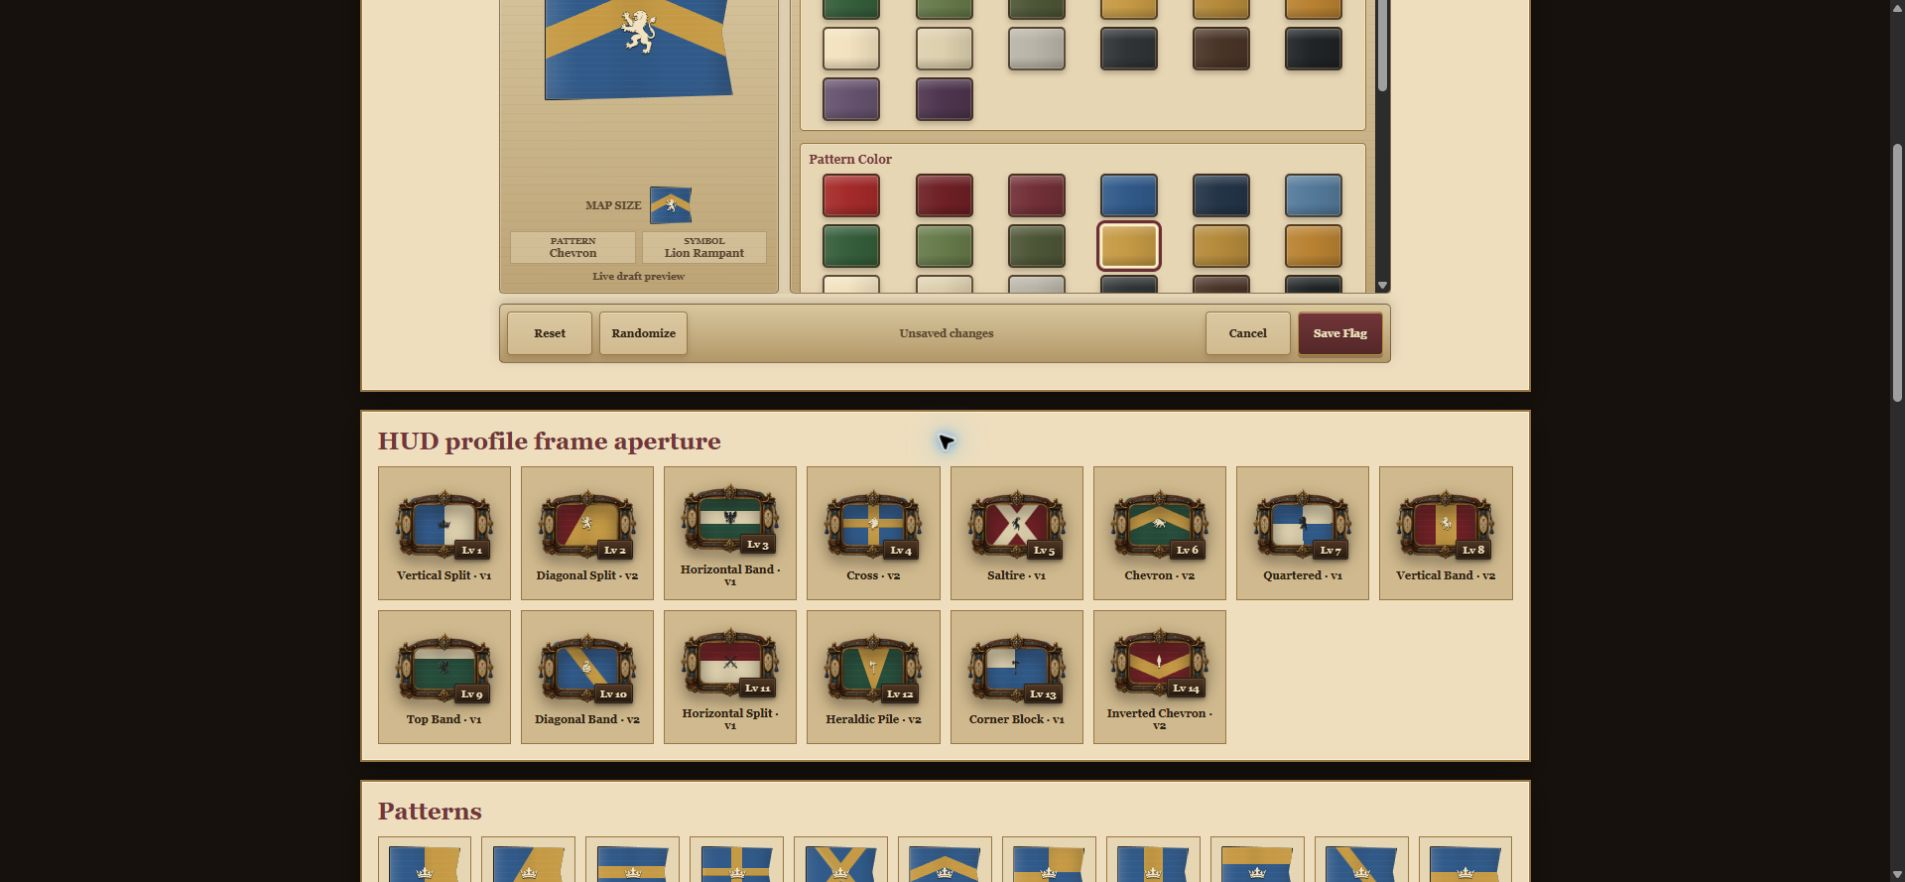
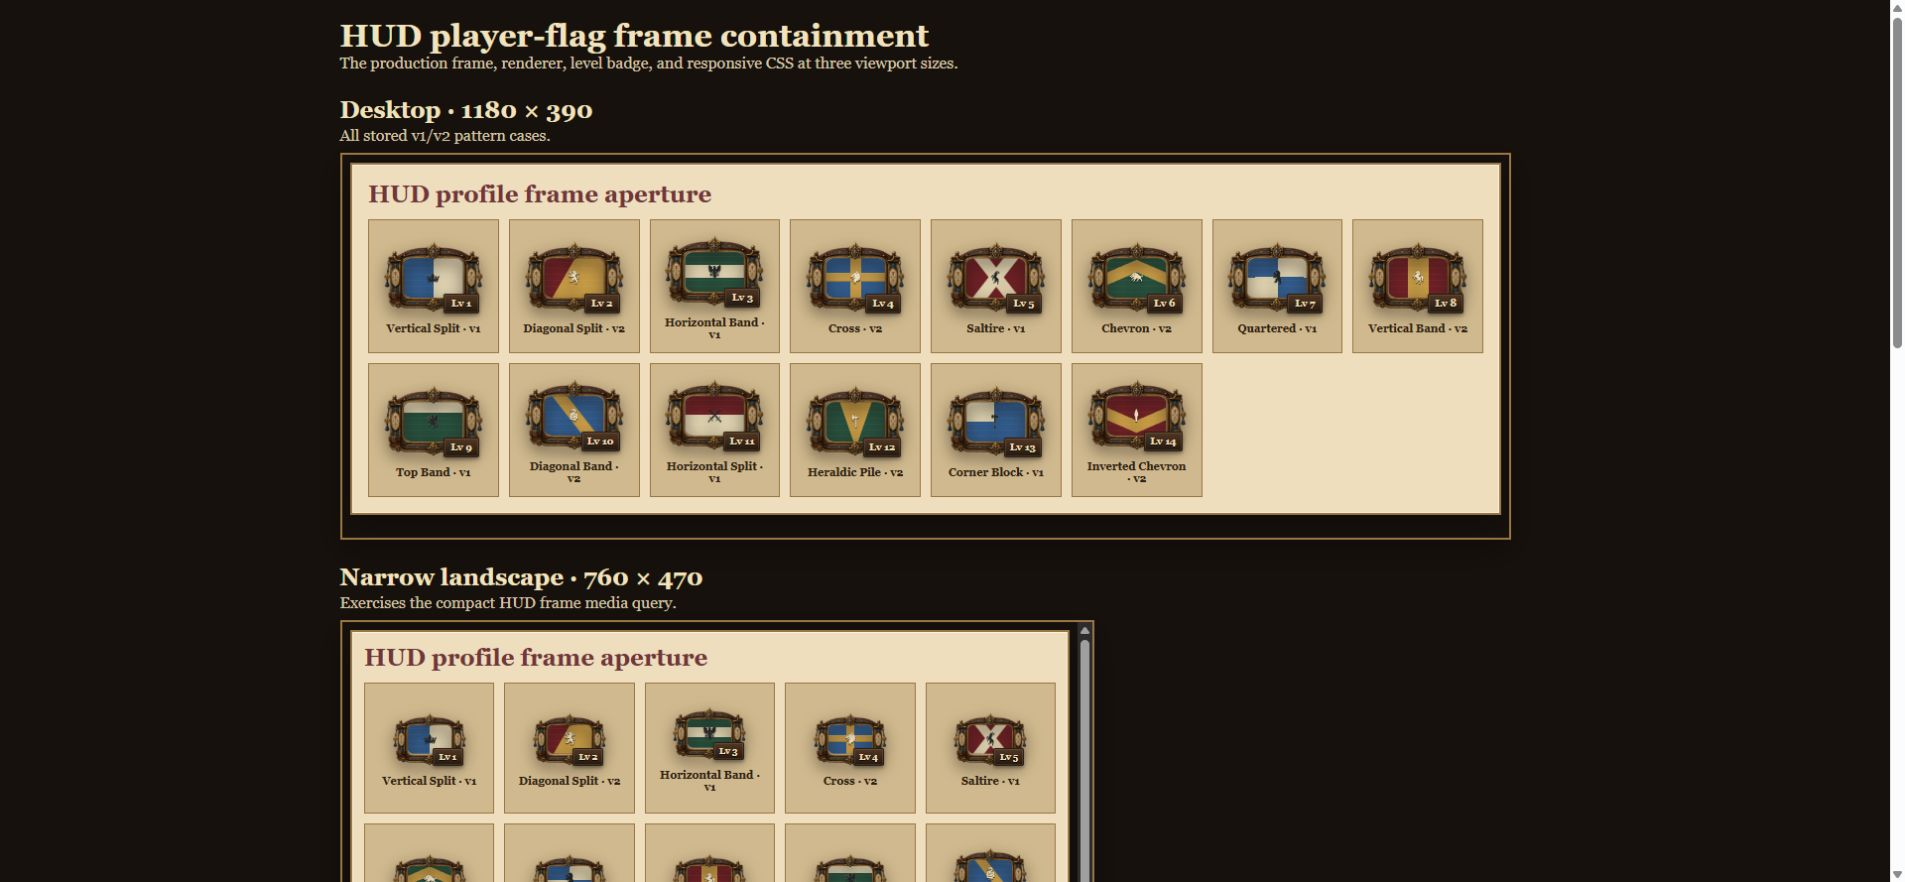
Calibrate HUD clip to production theme

diff --git a/tools/validate-player-flags.js b/tools/validate-player-flags.js
@@ -13,6 +13,7 @@ const index = read("index.html");
 const runtimeSprite = read("assets/flag-symbols/runtime.svg");
 const worker = read("service-worker.js");
 const styles = read("styles.css");
+const interfaceTheme = read("interface-theme.css");
 const editorStyles = read("player-flag-editor.css");
 const manuscript = read("manuscript-prototype.css");
 const profileTheme = read("profile-theme.css");
@@ -168,6 +169,7 @@ assert.doesNotMatch(editorStyles.match(/player-flag-editor__swatch\s*\{[\s\S]*?\
 
 const hudProfileButtonRule = styles.match(/\.profile-button\s*\{[\s\S]*?\n\}/)?.[0] || "";
 const hudFlagRule = styles.match(/\.profile-button \.kingdom-flag-small\s*\{[\s\S]*?\n\}/)?.[0] || "";
+const hudThemeFlagRule = interfaceTheme.match(/\.profile-button \.kingdom-flag-small\s*\{[\s\S]*?\n\}/)?.[0] || "";
 assert.match(hudFlagRule, /--hud-flag-aperture-inset:\s*\d+%/,
   "The HUD flag no longer defines a frame-aperture inset.");
 assert.match(hudFlagRule, /--hud-flag-aperture-radius:\s*\d+%/,
@@ -180,6 +182,10 @@ assert.doesNotMatch(styles, /\.profile-button \.kingdom-flag-small\s*\{[^}]*bord
   "A responsive HUD rule restores square flag corners inside the rounded frame.");
 assert.doesNotMatch(hudProfileButtonRule, /overflow:\s*(?:hidden|clip)/,
   "The profile button must not clip the ornate frame, shadow, level badge, or focus ring.");
+assert.match(hudThemeFlagRule, /--hud-flag-aperture-inset:\s*15% 9% 12%/,
+  "The final production theme does not compensate for its enlarged HUD flag underlay.");
+assert.match(hudThemeFlagRule, /--hud-flag-aperture-radius:\s*12%/,
+  "The final production theme no longer matches the frame aperture corners.");
 
 const swatchRenderer = extractFunction(game, "renderFlagSwatches");
 assert.match(swatchRenderer, /Current saved color/);
@@ -247,7 +253,7 @@ for (const source of [productionBuilder, productionValidator]) {
   assert.match(source, /player-flag-editor\.css/);
   assert.match(source, /assets\/flag-symbols\/runtime\.svg/);
 }
-for (const token of ["Background Color", "Pattern Color", "Symbol Color", "30 symbol cards", "21 selectable symbol cards", "legacy-only symbols hidden from selector", "14 pattern cards", "HUD profile frame aperture", "14 HUD frame pattern cases", "HUD flag aperture clips rounded frame corners", "HUD frame art remains unclipped", "computed visual checks"]) {
+for (const token of ["Background Color", "Pattern Color", "Symbol Color", "30 symbol cards", "21 selectable symbol cards", "legacy-only symbols hidden from selector", "14 pattern cards", "HUD profile frame aperture", "14 HUD frame pattern cases", "HUD flag aperture clips rounded frame corners", "HUD visible paint resolves inside frame aperture", "HUD frame art remains unclipped", "computed visual checks"]) {
   assert.ok(qaPage.includes(token), `Player-flag visual QA is missing ${token}.`);
 }
 assert.match(qaPage, /version:\s*index % 2 \? 2 : 1/, "HUD visual QA no longer alternates stored v1 and v2 flags.");

diff --git a/docs/visual-qa/player-flags/index.html b/docs/visual-qa/player-flags/index.html
@@ -425,8 +425,24 @@
       checks.push({ label: "14 pattern cards", pass: document.querySelectorAll("[data-pattern]").length === 14 });
       checks.push({ label: "14 HUD frame pattern cases", pass: document.querySelectorAll("[data-hud-case]").length === config.PATTERNS.length });
       const firstHudFlagStyle = getComputedStyle(document.querySelector("[data-hud-case]"));
-      checks.push({ label: "HUD flag aperture clips rounded frame corners", pass: firstHudFlagStyle.clipPath !== "none" && firstHudFlagStyle.borderRadius !== "0px" });
-      checks.push({ label: "HUD frame art remains unclipped", pass: getComputedStyle(document.querySelector(".qa-hud-case .profile-button")).overflow === "visible" });
+      checks.push({ label: "HUD flag aperture clips rounded frame corners", pass: firstHudFlagStyle.clipPath === "inset(15% 9% 12% round 12%)" && firstHudFlagStyle.borderRadius !== "0px" });
+      const firstHudFlagRect = document.querySelector("[data-hud-case]").getBoundingClientRect();
+      const firstHudButton = document.querySelector(".qa-hud-case .profile-button");
+      const firstHudButtonRect = firstHudButton.getBoundingClientRect();
+      const visibleHudBounds = {
+        left: firstHudFlagRect.left + firstHudFlagRect.width * .09,
+        top: firstHudFlagRect.top + firstHudFlagRect.height * .15,
+        right: firstHudFlagRect.right - firstHudFlagRect.width * .09,
+        bottom: firstHudFlagRect.bottom - firstHudFlagRect.height * .12,
+      };
+      checks.push({
+        label: "HUD visible paint resolves inside frame aperture",
+        pass: visibleHudBounds.left >= firstHudButtonRect.left + firstHudButtonRect.width * .195 - .5
+          && visibleHudBounds.top >= firstHudButtonRect.top + firstHudButtonRect.height * .254 - .5
+          && visibleHudBounds.right <= firstHudButtonRect.left + firstHudButtonRect.width * .805 + .5
+          && visibleHudBounds.bottom <= firstHudButtonRect.top + firstHudButtonRect.height * .775 + .5,
+      });
+      checks.push({ label: "HUD frame art remains unclipped", pass: getComputedStyle(firstHudButton).overflow === "visible" });
       const declaredCaptureWidth = Number(qaParams.get("width")) || 0;
       checks.push({
         label: "no horizontal page clipping",

diff --git a/interface-theme.css b/interface-theme.css
@@ -2037,6 +2037,9 @@ input[type="range"] {
 }
 
 .profile-button .kingdom-flag-small {
+  /* This later theme rule owns the production HUD geometry, so its clip must match the frame aperture. */
+  --hud-flag-aperture-inset: 15% 9% 12%;
+  --hud-flag-aperture-radius: 12%;
   left: 13.5%;
   top: 15%;
   width: 73%;

diff --git a/docs/visual-qa/player-flags/QA_NOTES.md b/docs/visual-qa/player-flags/QA_NOTES.md
@@ -16,9 +16,9 @@ The status banner must report `PASS`, the document must have no horizontal overf
 
 The production profile frame has a rounded transparent aperture, while the HUD flag previously painted to a larger square box beneath it. The renderer already contained oversized pattern layers inside the flag box, but that box did not match the aperture, so color remained visible in the frame's antialiased inner corners.
 
-The HUD-only rule now clips the flag to a percentage-based rounded inset. The outer `.profile-button` remains unclipped so the ornate frame, drop shadow, level badge, and focus treatment keep their full paint area. Generic flags on cities, profiles, reports, and leaderboards are unchanged.
+The HUD-only rule now clips the flag to a percentage-based rounded inset. The final `interface-theme.css` geometry deliberately enlarges the flag beneath the frame, so it overrides the base inset with asymmetric percentages calibrated to the actual transparent aperture. The outer `.profile-button` remains unclipped so the ornate frame, drop shadow, level badge, and focus treatment keep their full paint area. Generic flags on cities, profiles, reports, and leaderboards are unchanged.
 
-Open `hud-frame-responsive.html` to review all 14 patterns with alternating stored v1/v2 flags at desktop, narrow landscape, and mobile portrait sizes. The production visual fixture reports `PASS · 69 computed visual checks`.
+Open `hud-frame-responsive.html` to review all 14 patterns with alternating stored v1/v2 flags at desktop, narrow landscape, and mobile portrait sizes. The production visual fixture reports `PASS · 70 computed visual checks`, including resolved visible-paint bounds against the frame aperture.
 
 - `screenshots/hud-frame-before-live.png`: live-game HUD before the fix.
 - `screenshots/hud-frame-after-desktop.png`: production renderer and frame after the fix, all patterns and both stored versions.
